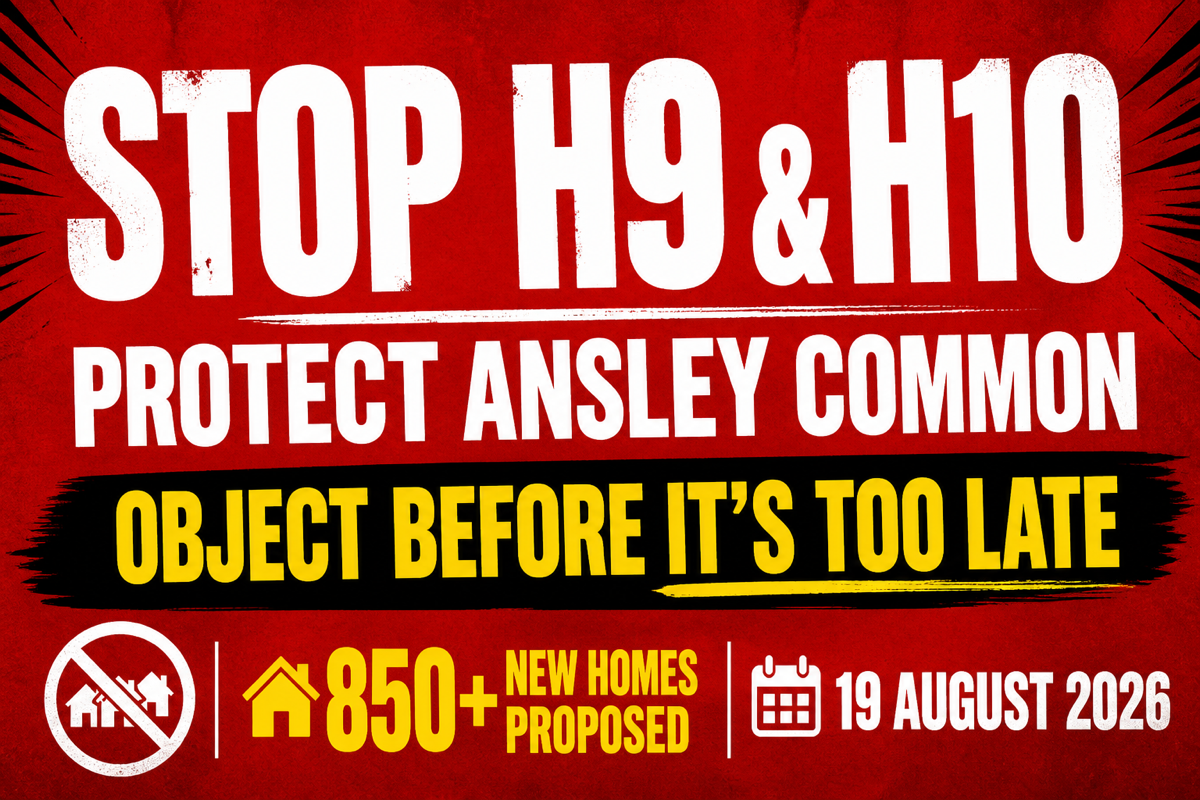
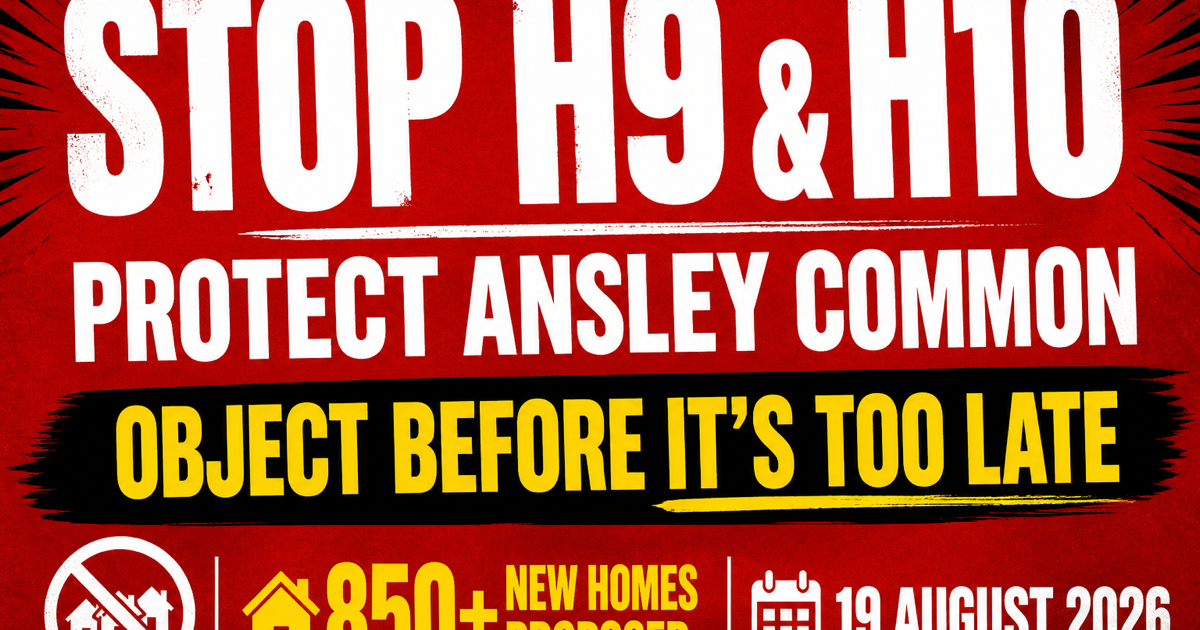
Add visible social share image section and fix OG previews.
Use a optimised 1200x630 JPEG for WhatsApp and Facebook link previews, and add on-page share buttons below the hero.

diff --git a/index.html b/index.html
@@ -10,13 +10,16 @@
   <meta property="og:url" content="https://ansleycommonplanning.netlify.app/">
   <meta property="og:title" content="Stop H9 & H10 – Protect Ansley Common">
   <meta property="og:description" content="Up to 850 new homes proposed at Ansley Common. Object to North Warwickshire's Draft Local Plan before 19 August 2026.">
-  <meta property="og:image" content="https://ansleycommonplanning.netlify.app/assets/og-image.png">
+  <meta property="og:image" content="https://ansleycommonplanning.netlify.app/assets/og-image.jpg">
+  <meta property="og:image:secure_url" content="https://ansleycommonplanning.netlify.app/assets/og-image.jpg">
+  <meta property="og:image:type" content="image/jpeg">
   <meta property="og:image:width" content="1200">
   <meta property="og:image:height" content="630">
+  <meta property="og:image:alt" content="Stop H9 and H10 - Protect Ansley Common. 850+ new homes proposed. Object before 19 August 2026.">
   <meta name="twitter:card" content="summary_large_image">
   <meta name="twitter:title" content="Stop H9 & H10 – Protect Ansley Common">
   <meta name="twitter:description" content="Up to 850 new homes proposed at Ansley Common. Sign the petition before 19 August 2026.">
-  <meta name="twitter:image" content="https://ansleycommonplanning.netlify.app/assets/og-image.png">
+  <meta name="twitter:image" content="https://ansleycommonplanning.netlify.app/assets/og-image.jpg">
   <link rel="stylesheet" href="/css/styles.css">
   <link rel="preconnect" href="https://fonts.googleapis.com">
   <link rel="preconnect" href="https://fonts.gstatic.com" crossorigin>
@@ -80,6 +83,37 @@
       <a href="#petition" class="btn btn--primary">Sign the petition</a>
     </div>
   </header>
+
+  <section class="section section--share-site">
+    <div class="container">
+      <h2 class="section__title section__title--red">Share this petition</h2>
+      <p class="section__lead">Share the website link on WhatsApp, Facebook, iMessage or local groups — this image appears automatically:</p>
+
+      <figure class="share-preview">
+        <img src="/assets/og-image.jpg" alt="Stop H9 and H10 - Protect Ansley Common campaign share image" width="1200" height="630" loading="eager">
+      </figure>
+
+      <div class="share-site-actions">
+        <a href="/assets/og-image.jpg" download="protect-ansley-common-share.jpg" class="share-btn share-btn--save">
+          <svg width="18" height="18" viewBox="0 0 24 24" fill="currentColor" aria-hidden="true"><path d="M19 9h-4V3H9v6H5l7 7 7-7zM5 18v2h14v-2H5z"/></svg>
+          Save share image
+        </a>
+        <a href="#" class="share-btn share-btn--whatsapp" id="share-site-whatsapp">
+          <svg width="18" height="18" viewBox="0 0 24 24" fill="currentColor" aria-hidden="true"><path d="M17.472 14.382c-.297-.149-1.758-.867-2.03-.967-.273-.099-.471-.148-.67.15-.197.297-.767.966-.94 1.164-.173.199-.347.223-.644.075-.297-.15-1.255-.463-2.39-1.475-.883-.788-1.48-1.761-1.653-2.059-.173-.297-.018-.458.13-.606.134-.133.298-.347.446-.52.149-.174.198-.298.298-.497.099-.198.05-.371-.025-.52-.075-.149-.669-1.612-.916-2.207-.242-.579-.487-.5-.669-.51-.173-.008-.371-.01-.57-.01-.198 0-.52.074-.792.372-.272.297-1.04 1.016-1.04 2.479 0 1.462 1.065 2.875 1.213 3.074.149.198 2.096 3.2 5.077 4.487.709.306 1.262.489 1.694.625.712.227 1.36.195 1.871.118.571-.085 1.758-.719 2.006-1.413.248-.694.248-1.289.173-1.413-.074-.124-.272-.198-.57-.347m-5.421 7.403h-.004a9.87 9.87 0 01-5.031-1.378l-.361-.214-3.741.982.998-3.648-.235-.374a9.86 9.86 0 01-1.51-5.26c.001-5.45 4.436-9.884 9.888-9.884 2.64 0 5.122 1.03 6.988 2.898a9.825 9.825 0 012.893 6.994c-.003 5.45-4.435 9.884-9.884 9.884m8.413-18.297A11.815 11.815 0 0012.05 0C5.495 0 .16 5.335.157 11.892c0 2.096.547 4.142 1.588 5.945L.057 24l6.305-1.654a11.882 11.882 0 005.683 1.448h.005c6.554 0 11.89-5.335 11.893-11.893a11.821 11.821 0 00-3.48-8.413z"/></svg>
+          WhatsApp
+        </a>
+        <a href="#" class="share-btn share-btn--facebook" id="share-site-facebook" target="_blank" rel="noopener noreferrer">
+          <svg width="18" height="18" viewBox="0 0 24 24" fill="currentColor" aria-hidden="true"><path d="M24 12.073c0-6.627-5.373-12-12-12s-12 5.373-12 12c0 5.99 4.388 10.954 10.125 11.854v-8.385H7.078v-3.47h3.047V9.43c0-3.007 1.792-4.669 4.533-4.669 1.312 0 2.686.235 2.686.235v2.953H15.83c-1.491 0-1.956.925-1.956 1.874v2.25h3.328l-.532 3.47h-2.796v8.385C19.612 23.027 24 18.062 24 12.073z"/></svg>
+          Facebook
+        </a>
+        <button type="button" class="share-btn share-btn--copy" id="share-site-copy">
+          <svg width="18" height="18" viewBox="0 0 24 24" fill="currentColor" aria-hidden="true"><path d="M16 1H4c-1.1 0-2 .9-2 2v14h2V3h12V1zm3 4H8c-1.1 0-2 .9-2 2v14c0 1.1.9 2 2 2h11c1.1 0 2-.9 2-2V7c0-1.1-.9-2-2-2zm0 16H8V7h11v14z"/></svg>
+          Copy link
+        </button>
+      </div>
+      <p class="share-prompt__hint" id="share-site-feedback" hidden>Link copied — paste into your chat</p>
+    </div>
+  </section>
 
   <main>
     <section id="petition" class="section section--form">

diff --git a/js/share.js b/js/share.js
@@ -6,22 +6,18 @@
     'Object to North Warwickshire\'s Draft Local Plan before 19 Aug 2026. Sign the petition: ' +
     siteUrl;
 
-  var whatsappBtn = document.getElementById('share-whatsapp');
-  var smsBtn = document.getElementById('share-sms');
-  var copyBtn = document.getElementById('share-copy');
-  var feedback = document.getElementById('share-feedback');
-
-  if (whatsappBtn) {
-    whatsappBtn.href =
-      'https://wa.me/?text=' + encodeURIComponent(shareMessage);
+  function wireLink(id, href) {
+    var el = document.getElementById(id);
+    if (el) el.href = href;
   }
 
-  if (smsBtn) {
-    smsBtn.href = 'sms:?&body=' + encodeURIComponent(shareMessage);
-  }
+  function wireCopy(buttonId, feedbackId, text) {
+    var btn = document.getElementById(buttonId);
+    var feedback = document.getElementById(feedbackId);
 
-  if (copyBtn) {
-    copyBtn.addEventListener('click', function () {
+    if (!btn) return;
+
+    btn.addEventListener('click', function () {
       var done = function () {
         if (feedback) {
           feedback.hidden = false;
@@ -32,10 +28,10 @@
       };
 
       if (navigator.clipboard && navigator.clipboard.writeText) {
-        navigator.clipboard.writeText(shareMessage).then(done);
+        navigator.clipboard.writeText(text).then(done);
       } else {
         var textarea = document.createElement('textarea');
-        textarea.value = shareMessage;
+        textarea.value = text;
         textarea.style.position = 'fixed';
         textarea.style.opacity = '0';
         document.body.appendChild(textarea);
@@ -46,4 +42,15 @@
       }
     });
   }
+
+  wireLink('share-whatsapp', 'https://wa.me/?text=' + encodeURIComponent(shareMessage));
+  wireLink('share-sms', 'sms:?&body=' + encodeURIComponent(shareMessage));
+  wireLink('share-site-whatsapp', 'https://wa.me/?text=' + encodeURIComponent(shareMessage));
+  wireLink(
+    'share-site-facebook',
+    'https://www.facebook.com/sharer/sharer.php?u=' + encodeURIComponent(siteUrl)
+  );
+
+  wireCopy('share-copy', 'share-feedback', shareMessage);
+  wireCopy('share-site-copy', 'share-site-feedback', siteUrl);
 })();

diff --git a/css/styles.css b/css/styles.css
@@ -287,6 +287,45 @@ body.countdown-sticky-active {
   background: var(--grey);
 }
 
+.section--share-site {
+  background: var(--white);
+  padding-top: 2rem;
+  padding-bottom: 2rem;
+  border-bottom: 4px solid var(--red);
+}
+
+.share-preview {
+  border: 4px solid var(--black);
+  box-shadow: 0 8px 24px rgba(0, 0, 0, 0.15);
+  margin-bottom: 1.25rem;
+  overflow: hidden;
+}
+
+.share-preview img {
+  display: block;
+  width: 100%;
+}
+
+.share-site-actions {
+  display: grid;
+  grid-template-columns: 1fr 1fr;
+  gap: 0.5rem;
+}
+
+.share-site-actions .share-btn--save {
+  grid-column: 1 / -1;
+}
+
+.share-btn--facebook {
+  background: #1877F2;
+  color: var(--white);
+  border-color: #145db2;
+}
+
+.share-btn--facebook:hover {
+  background: #166fe5;
+}
+
 .section--facts {
   background: var(--white);
 }
